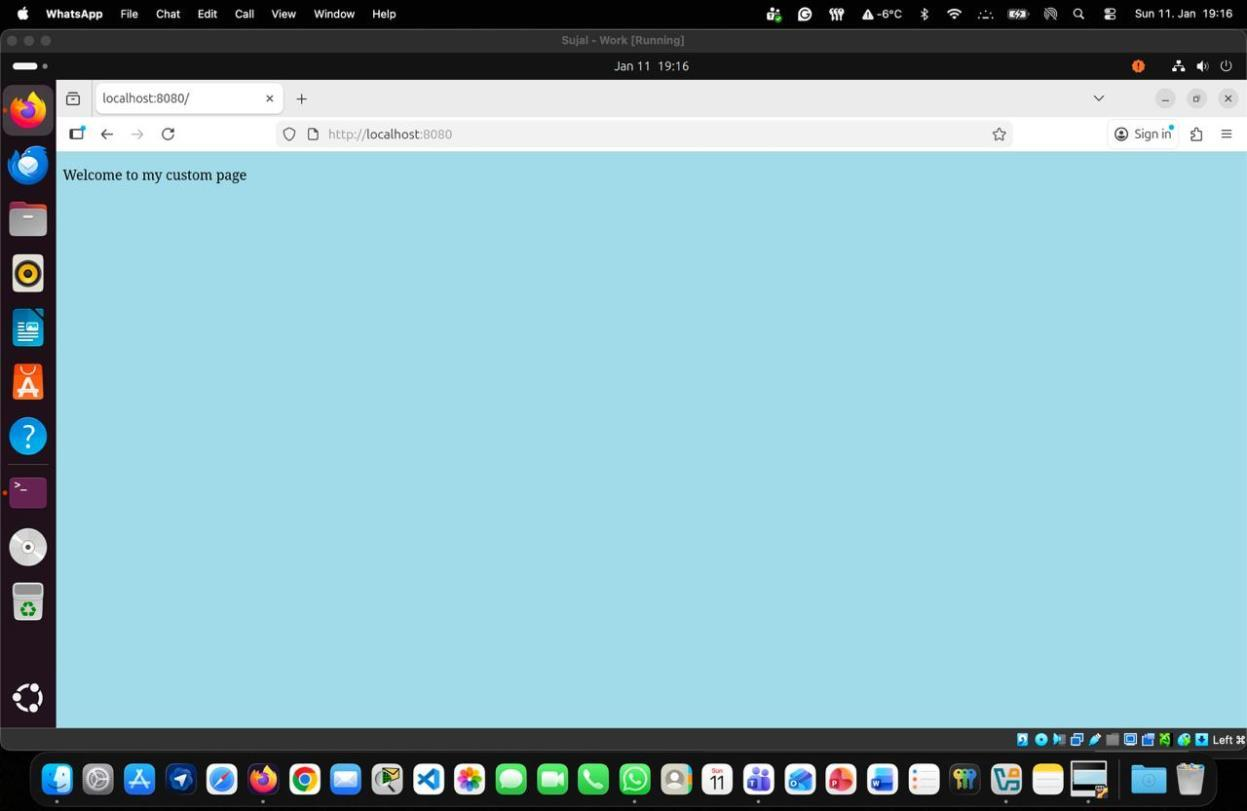
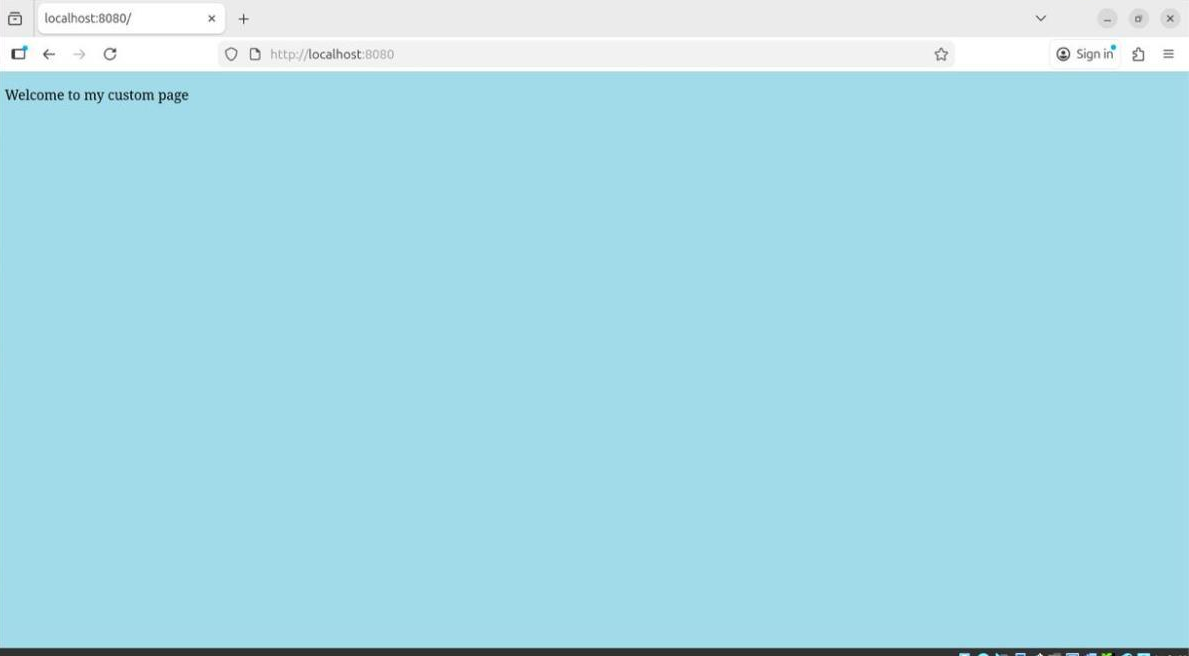
Polish docs: README, report covers, and presentation
- README: tighten the copy and drop decorative emoji
- Reports: add cover pages and give the PDFs descriptive names
- Presentation: simplify the title slide and rename the deck
- Screenshots: crop the web app shot to the browser window
- LICENSE: set the copyright holder

diff --git a/README.md b/README.md
@@ -1,6 +1,6 @@
 <div align="center">
 
-# 🖥️ VMS-Docker-Network
+# VMS-Docker-Network
 
 ### Enterprise Network Design · Linux Virtualization · Docker Containerization
 
@@ -12,33 +12,32 @@
 ![Linux](https://img.shields.io/badge/Linux-FCC624?style=for-the-badge&logo=linux&logoColor=black)
 ![License: MIT](https://img.shields.io/badge/License-MIT-3DA639?style=for-the-badge)
 
-
 </div>
 
 ---
 
-A hands-on **systems & networking** project covering the core building blocks of IT
-infrastructure end to end: designing a secure, segmented **enterprise network**,
-running multiple **Linux operating systems** as virtual machines, and packaging &
-deploying applications with **Docker** — from a single-script container to a
+A hands-on systems & networking project covering the core building blocks of IT
+infrastructure end to end: designing a secure, segmented enterprise network,
+running multiple Linux operating systems as virtual machines, and packaging &
+deploying applications with Docker — from a single-script container to a
 configurable Flask web service.
 
-## ✨ What this project demonstrates
+## What this project demonstrates
 
 | Area | Skills |
 | ---- | ------ |
-| 🌐 **Networking** | Hierarchical network design, VLSM subnetting, static routing, DMZ, three-legged firewall, DHCP & DNS, connectivity testing |
-| 🐧 **Linux & virtualization** | Oracle VirtualBox, Ubuntu & Debian, user & sudo management, CLI administration, Synaptic package management |
-| 🐳 **Containerization** | Docker images & containers, Docker Hub, Dockerfiles, port mapping, runtime configuration via environment variables |
-| 🐍 **Development** | Python 3, Flask, Jinja2 templating |
+| Networking | Hierarchical network design, VLSM subnetting, static routing, DMZ, three-legged firewall, DHCP & DNS, connectivity testing |
+| Linux & virtualization | Oracle VirtualBox, Ubuntu & Debian, user & sudo management, CLI administration, Synaptic package management |
+| Containerization | Docker images & containers, Docker Hub, Dockerfiles, port mapping, runtime configuration via environment variables |
+| Development | Python 3, Flask, Jinja2 templating |
 
 ---
 
-## 🗺️ Task 1 — Enterprise network design (Cisco Packet Tracer)
+## Task 1 — Enterprise network design (Cisco Packet Tracer)
 
 A hierarchical topology (access / distribution / edge) segmented into three security
-zones, with a perimeter **ASA firewall** in a three-legged configuration controlling
-all cross-zone traffic.
+zones, with a perimeter ASA firewall in a three-legged configuration controlling all
+cross-zone traffic.
 
 <div align="center">
   <img src="docs/screenshots/network-topology.png" alt="Network topology" width="640">
@@ -46,43 +45,35 @@ all cross-zone traffic.
 
 | Zone | Network | Trust | Hosts |
 | ---- | ------- | ----- | ----- |
-| 🟢 Internal LAN 1 | `192.168.10.0/24` | Trusted (SL 100) | 20 workstations |
-| 🔵 Internal LAN 2 | `[phone redacted]/26` | Trusted (SL 100) | Laptops + mobile via Wi-Fi (WAP) |
-| 🟠 DMZ | `192.168.30.0/27` | Semi-trusted (SL 50) | Public Web + DNS server (`hellofromnoel.de`) |
-| 🔴 WAN | `8.8.8.0/24` | Untrusted (SL 0) | Simulated internet |
+| Internal LAN 1 | `192.168.10.0/24` | Trusted (SL 100) | 20 workstations |
+| Internal LAN 2 | `[phone redacted]/26` | Trusted (SL 100) | Laptops + mobile via Wi-Fi (WAP) |
+| DMZ | `192.168.30.0/27` | Semi-trusted (SL 50) | Public web + DNS server |
+| WAN | `8.8.8.0/24` | Untrusted (SL 0) | Simulated internet |
 
 Backbone links use `/30` point-to-point subnets; the firewall serves DHCP and enforces
-zone-to-zone policy (e.g. WAN→LAN denied, LAN→WAN permitted, DMZ→LAN denied).
-📄 Full design, addressing table & test matrix: [`report/Group9-Cisco-Network-Report.pdf`](report/Group9-Cisco-Network-Report.pdf)
-📦 Open the live simulation: [`task1-network-firewall/Network.pkt`](task1-network-firewall/Network.pkt)
+zone-to-zone policy (e.g. WAN to LAN denied, LAN to WAN permitted, DMZ to LAN denied).
+Full design, addressing table & test matrix: [`report/Report-for-Cisco-Network.pdf`](report/Report-for-Cisco-Network.pdf)
+Open the live simulation: [`task1-network-firewall/Network.pkt`](task1-network-firewall/Network.pkt)
 
 ---
 
-## 🐧 Task 2 — Linux virtual machines
+## Task 2 — Linux virtual machines
 
-**Ubuntu** and **Debian** created in Oracle VirtualBox and run **simultaneously**.
-Includes admin + normal user creation, sudo configuration, Python installation and
-execution from the terminal, and software installation via the Synaptic Package Manager.
-
-<div align="center">
-  <img src="docs/screenshots/linux-vms.png" alt="Ubuntu and Debian running at the same time" width="640">
-</div>
+Ubuntu and Debian created in Oracle VirtualBox and run simultaneously. Includes admin
+and normal user creation, sudo configuration, Python installation and execution from the
+terminal, and software installation via the Synaptic Package Manager.
 
 ---
 
-## 🐳 Task 3 — Docker on Ubuntu
+## Task 3 — Docker on Ubuntu
 
 Docker installed on the Ubuntu VM, authenticated with Docker Hub, then used to run the
-`hello-world` and `ubuntu` images, list containers, and create a **custom command**
-inside a running container.
-
-<div align="center">
-  <img src="docs/screenshots/docker-containers.png" alt="Docker containers running on Ubuntu" width="640">
-</div>
+`hello-world` and `ubuntu` images, list containers, and create a custom command inside a
+running container.
 
 ---
 
-## 🧩 Task 4 — Python container
+## Task 4 — Python container
 
 A minimal Python program packaged into its own Docker image.
 
@@ -94,9 +85,9 @@ docker run --rm hello-python
 
 ---
 
-## 🌶️ Task 5 — Flask container (runtime-configurable)
+## Task 5 — Flask container (runtime-configurable)
 
-A Flask web app whose page background colour is injected **at runtime** through the
+A Flask web app whose page background colour is injected at runtime through the
 `MY_COLOR` environment variable — demonstrating container configuration without
 rebuilding the image.
 
@@ -113,7 +104,7 @@ docker run --rm -p 8080:8080 -e MY_COLOR=lightblue flask-app
 
 ---
 
-## 📁 Repository structure
+## Repository structure
 
 ```
 VMS-Docker-Network/
@@ -121,21 +112,16 @@ VMS-Docker-Network/
 ├── task2-linux-vms/           # Python program run on the Ubuntu VM
 ├── task4-python-container/     # hello.py + Dockerfile
 ├── task5-flask-container/      # Flask app, Dockerfile, requirements.txt, templates/
-├── report/                    # Full written reports (PDF)
+├── report/                    # Project reports (PDF)
 ├── presentation/              # Slide deck (PPTX)
-└── docs/screenshots/          # Evidence images used in this README
+└── docs/screenshots/          # Images used in this README
 ```
 
-## 🛠️ Tech stack
+## Tech stack
 
 `Cisco Packet Tracer` · `Oracle VirtualBox` · `Ubuntu` · `Debian` · `Docker` ·
 `Docker Hub` · `Python 3.11` · `Flask` · `Jinja2`
 
-## 👥 Group 9
-
-Alma Nyarko · David Kioko · Segun Abraham Oladimeji · Sujal Choudhary ·
-Shat Chakra Pawar (Amgothu) · Noël Sigmunczyk · Varrel Omar Farazi
-
-## 📄 License
+## License
 
 Released under the [MIT License](LICENSE).